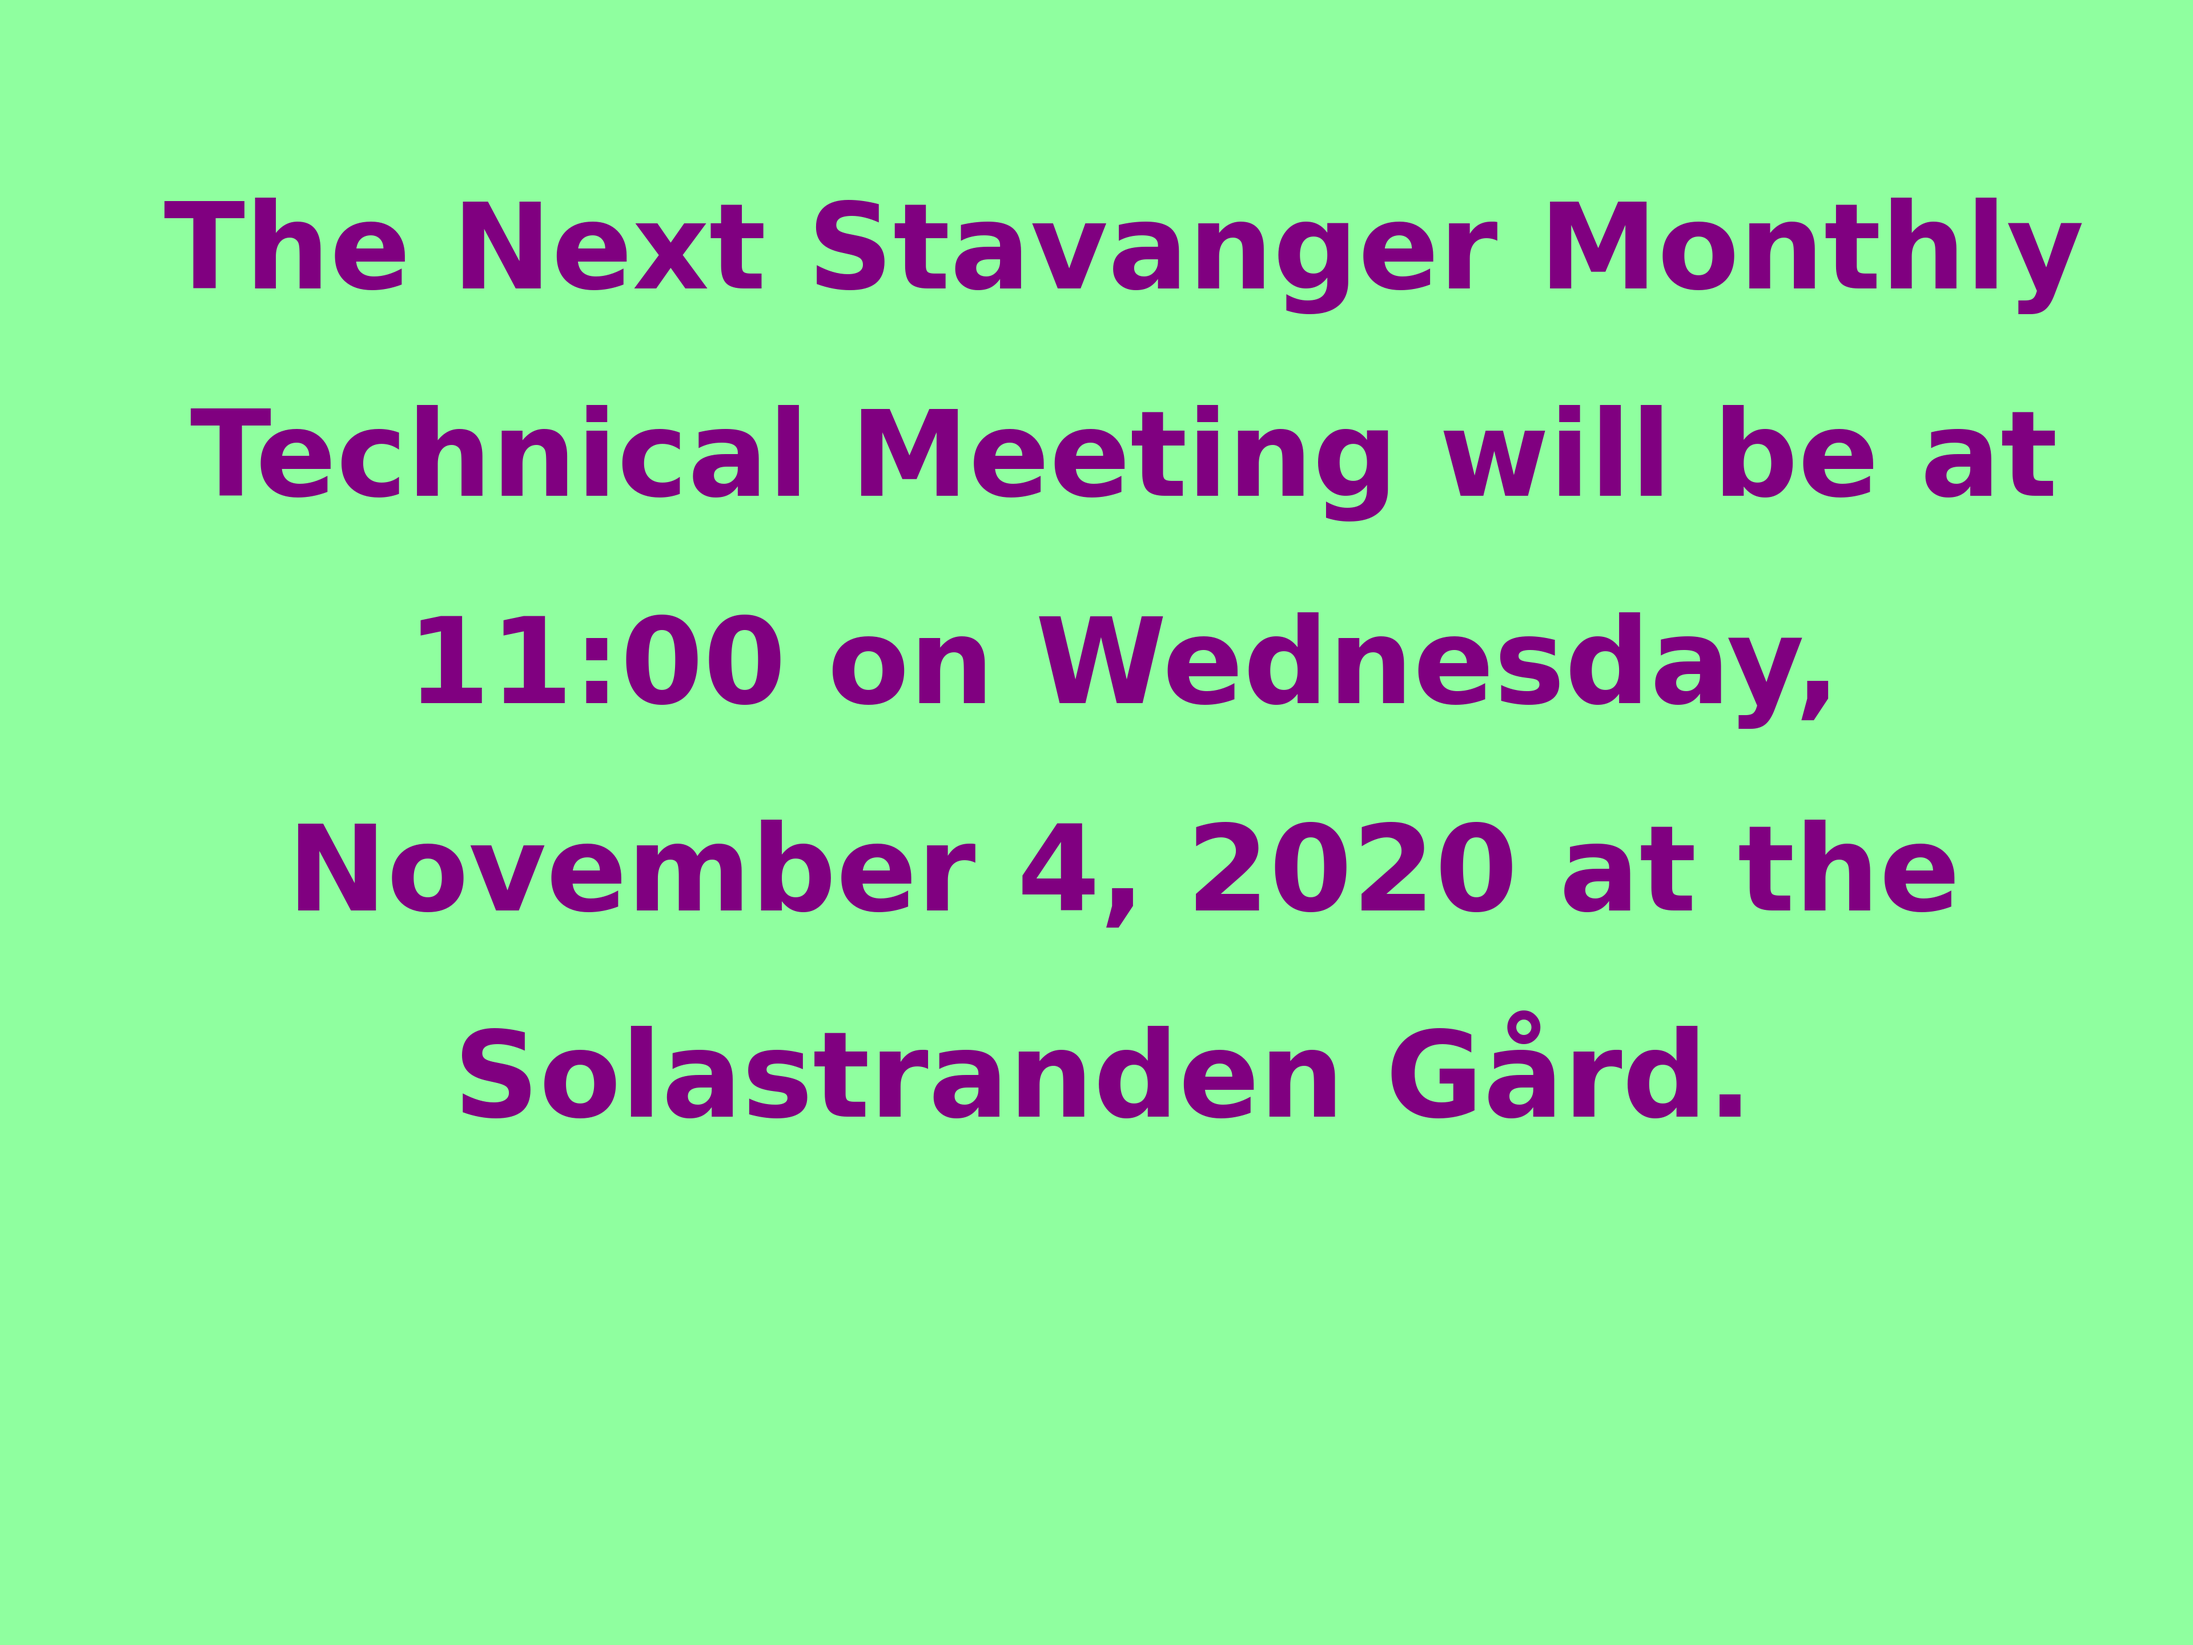
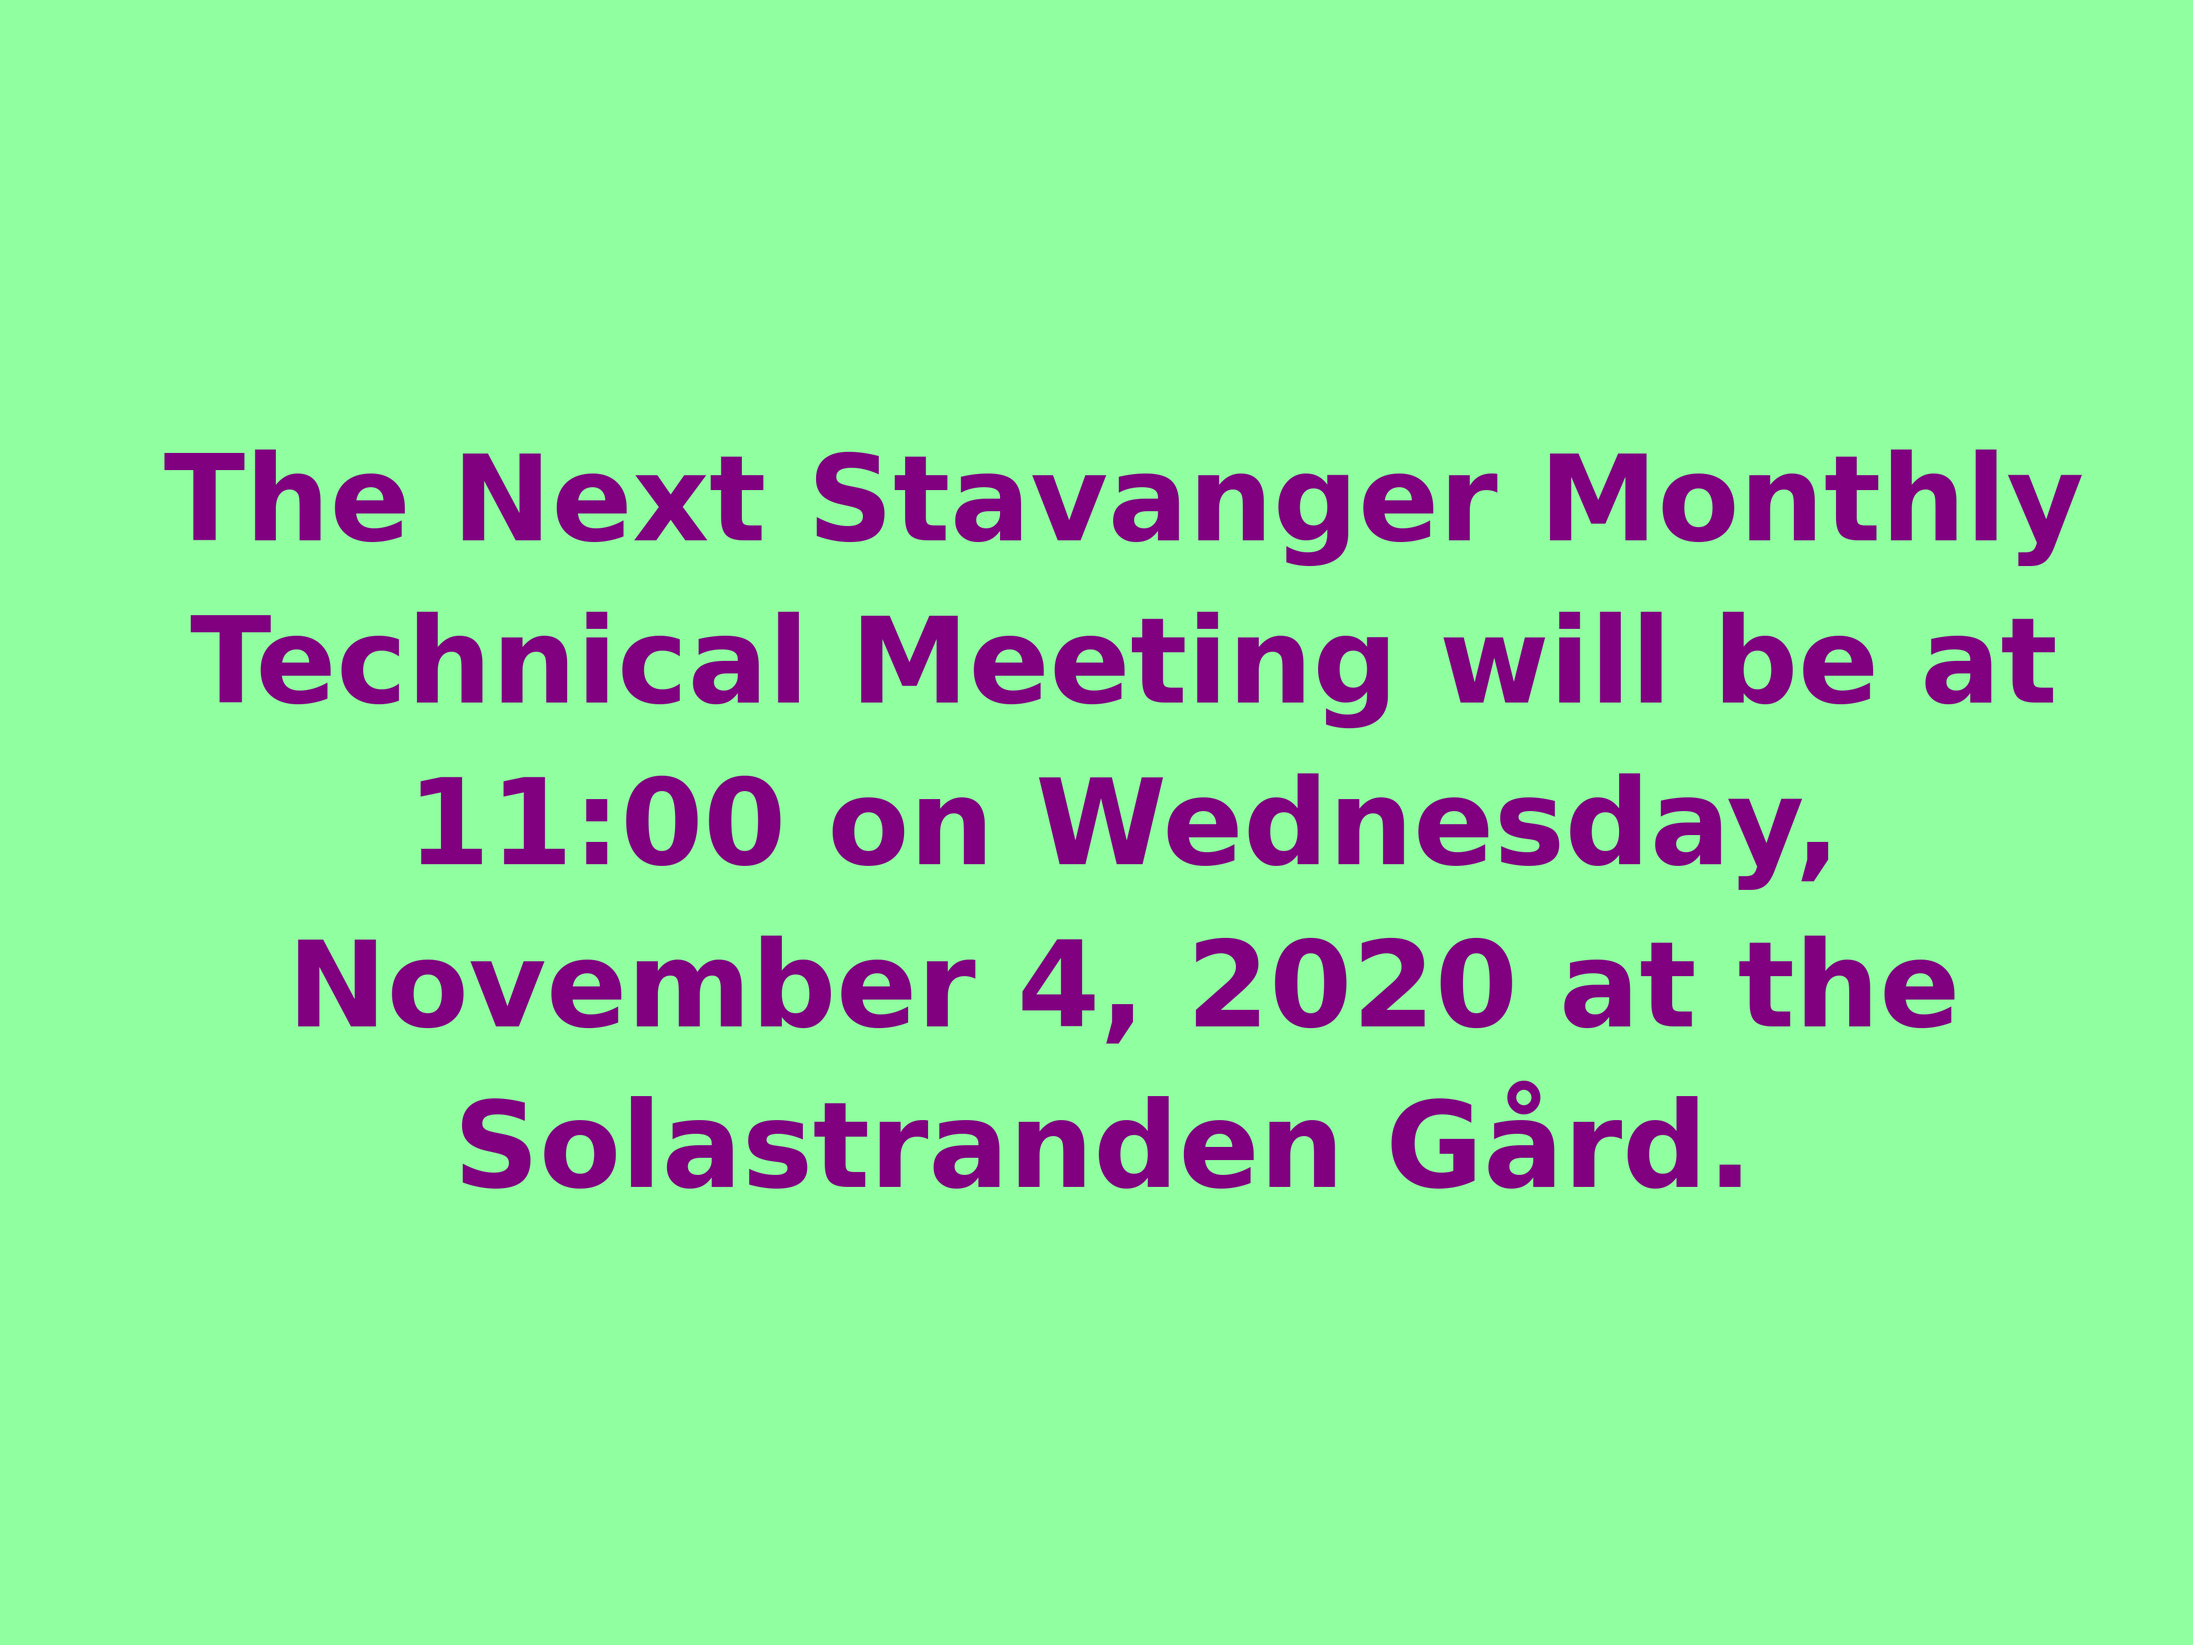
Updated image generation

diff --git a/python-scripts/create_image.py b/python-scripts/create_image.py
@@ -10,11 +10,11 @@ t = "The Next Stavanger Monthly Technical Meeting will be at 11:00 on Wednesday,
 # plt.text(4, 1, t, ha='left', rotation=15, wrap=True)
 # plt.text(6, 5, t, ha='left', rotation=15, wrap=True)
 # plt.text(5, 5, t, ha='right', rotation=-15, wrap=True)
-plt.text(5, 10, t, fontsize=25, style='normal',
+plt.text(5, 5, t, fontsize=25, style='normal',
          weight = 'bold',
          # weight='light',
          ha='center',
-         va='top', wrap=True, linespacing=2,
+         va='center', wrap=True, linespacing=1.5,
          # backgroundcolor='purple',
          color='purple')
 # plt.text(3, 4, t, family='serif', style='italic', ha='right', wrap=True)
